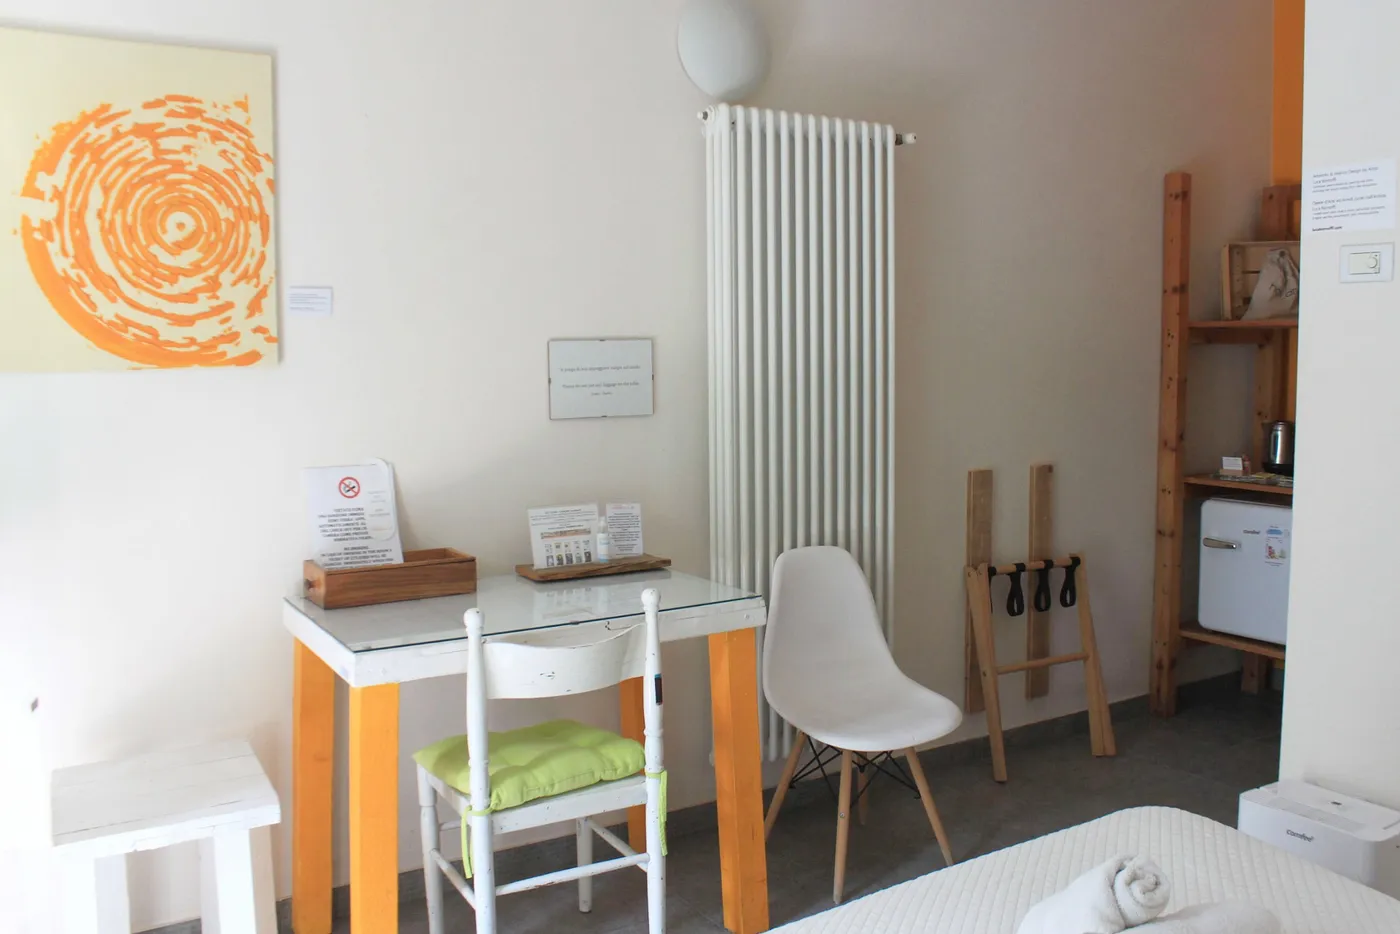
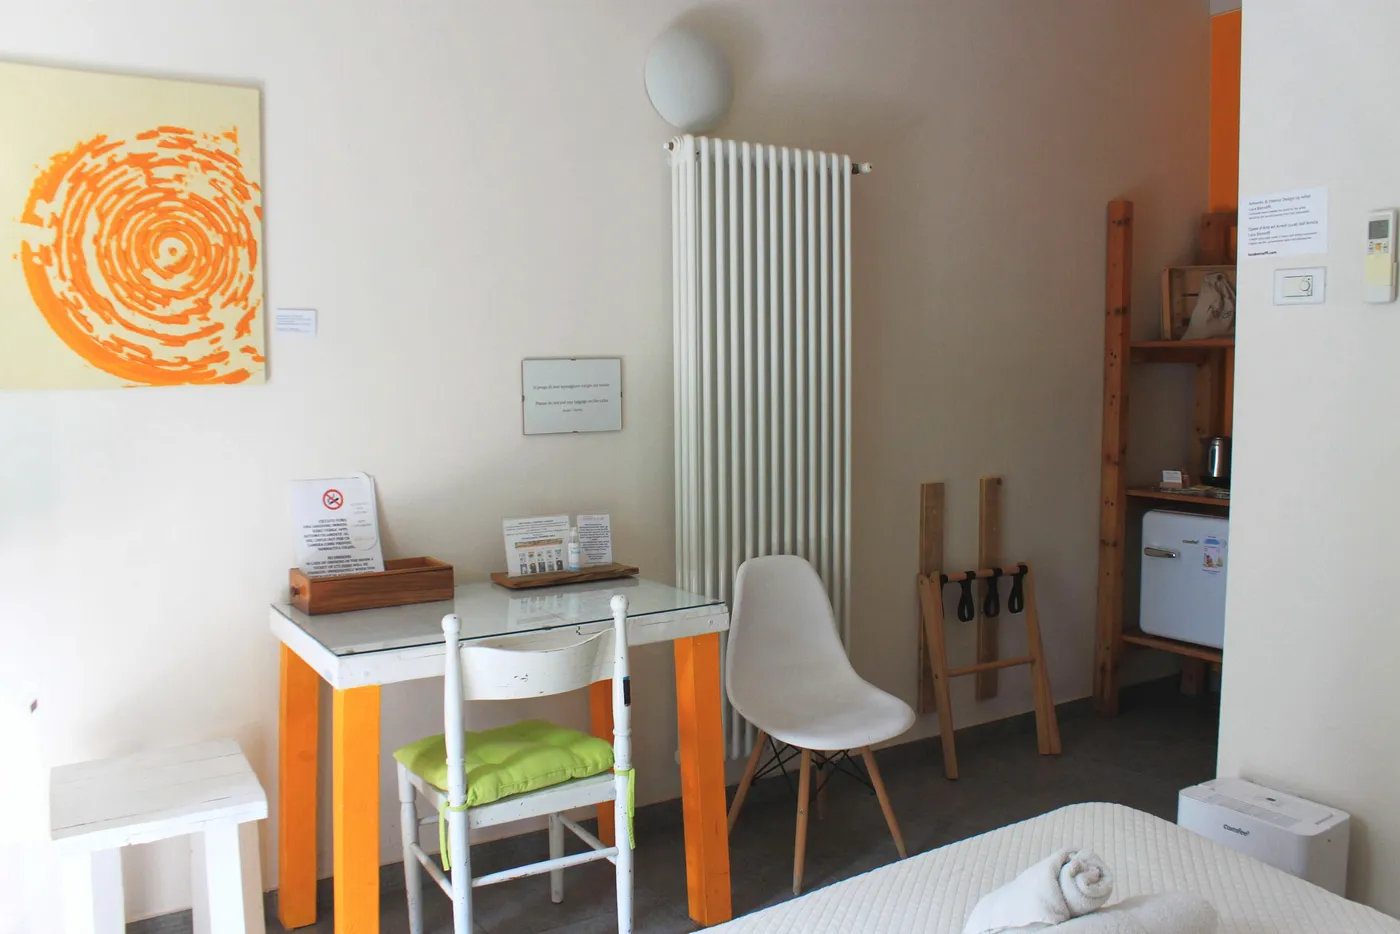
Foto aggiornata dal pannello: Camera Zucca

diff --git a/en/index.html b/en/index.html
@@ -1474,7 +1474,7 @@
         <article class="room room--d room--reverse">
           <div class="room__media">
             <div class="img-slot" data-room-img="right">
-              <img width="1400" height="934" src="../img/alloggi-zucca.webp?v=1786189612009" srcset="../img/alloggi-zucca-800.webp?v=1786189612009 800w, ../img/alloggi-zucca.webp?v=1786189612009 1400w" sizes="(max-width: 980px) 92vw, 705px" alt="The Zucca Room: authentic materials and handcrafted details" data-img-parallax loading="lazy" decoding="async" />
+              <img width="1400" height="934" src="../img/alloggi-zucca.webp?v=1786189715579" srcset="../img/alloggi-zucca-800.webp?v=1786189715579 800w, ../img/alloggi-zucca.webp?v=1786189715579 1400w" sizes="(max-width: 980px) 92vw, 705px" alt="The Zucca Room: authentic materials and handcrafted details" data-img-parallax loading="lazy" decoding="async" />
             </div>
           </div>
           <div class="room__text" data-room-text>

diff --git a/index.html b/index.html
@@ -1473,7 +1473,7 @@
         <article class="room room--d room--reverse">
           <div class="room__media">
             <div class="img-slot" data-room-img="right">
-              <img width="1400" height="934" src="img/alloggi-zucca.webp?v=1786189612009" srcset="img/alloggi-zucca-800.webp?v=1786189612009 800w, img/alloggi-zucca.webp?v=1786189612009 1400w" sizes="(max-width: 980px) 92vw, 705px" alt="La Camera Zucca: materiali autentici e dettagli artigianali" data-img-parallax loading="lazy" decoding="async" />
+              <img width="1400" height="934" src="img/alloggi-zucca.webp?v=1786189715579" srcset="img/alloggi-zucca-800.webp?v=1786189715579 800w, img/alloggi-zucca.webp?v=1786189715579 1400w" sizes="(max-width: 980px) 92vw, 705px" alt="La Camera Zucca: materiali autentici e dettagli artigianali" data-img-parallax loading="lazy" decoding="async" />
             </div>
           </div>
           <div class="room__text" data-room-text>
